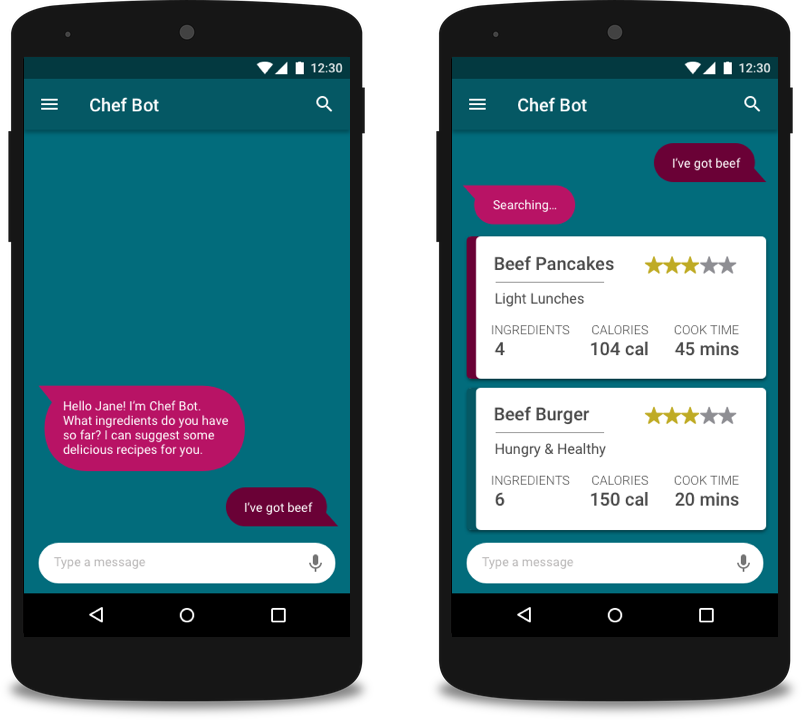
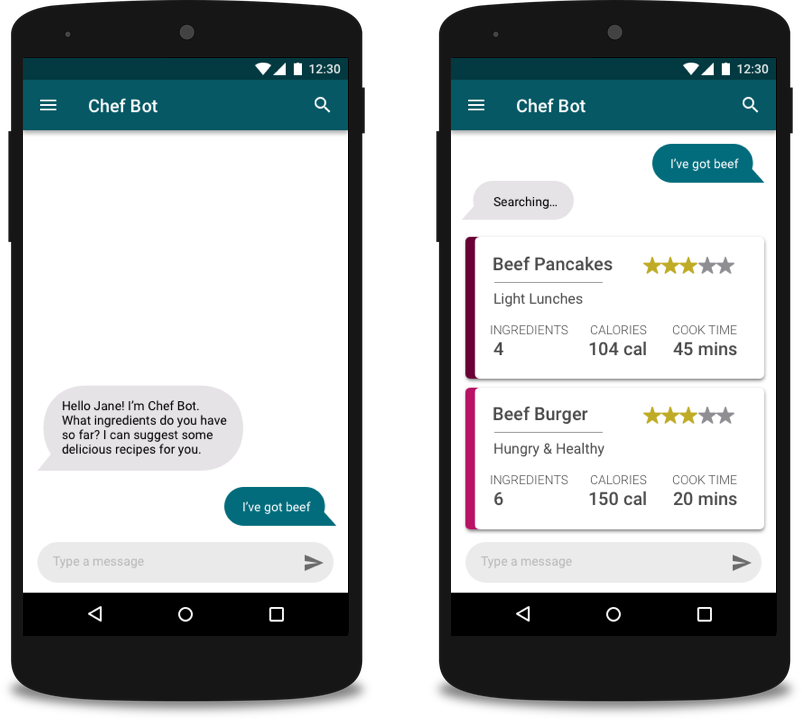
added animations

diff --git a/src/styles.css b/src/styles.css
@@ -30,6 +30,60 @@ footer {
     text-align: center;
 }
 
+.slideInUp {
+    -webkit-animation: slideInUp 0.5s ease-out;
+    animation: slideInUp 0.5s ease-out;
+}
+@-webkit-keyframes slideInUp {
+    from {
+      -webkit-transform: translate3d(0, 100%, 0);
+      transform: translate3d(0, 100%, 0);
+      visibility: visible;
+    }
+  
+    to {
+      -webkit-transform: translate3d(0, 0, 0);
+      transform: translate3d(0, 0, 0);
+    }
+}
+  
+@keyframes slideInUp {
+    from {
+      -webkit-transform: translate3d(0, 100%, 0);
+      transform: translate3d(0, 100%, 0);
+      visibility: visible;
+    }
+  
+    to {
+      -webkit-transform: translate3d(0, 0, 0);
+      transform: translate3d(0, 0, 0);
+    }
+}
+
+.fadeIn {
+    -webkit-animation: fadeIn 1s;
+    animation: fadeIn 1s;
+}
+@-webkit-keyframes fadeIn {
+    from {
+      opacity: 0;
+    }
+  
+    to {
+      opacity: 1;
+    }
+  }
+  
+@keyframes fadeIn {
+    from {
+      opacity: 0;
+    }
+  
+    to {
+      opacity: 1;
+    }
+}
+
 /* RESPONSIVE CSS */
 
 @media only screen and (max-width: 414px){

diff --git a/src/app/prototypes/prototypes.component.css b/src/app/prototypes/prototypes.component.css
@@ -11,7 +11,13 @@
     height: auto;
 }
 #greeting{
-    animation: flash 3s ease-in-out -2s 3 alternate none;
+    background: linear-gradient(to left, #026C7C 40%, black 60%);
+    background-size: 200% auto;
+    color: black;
+    background-clip: text;
+    -webkit-background-clip: text;
+    -webkit-text-fill-color: transparent;
+    animation: flash 2s linear;
 }
 #details{
     display: grid;
@@ -51,12 +57,10 @@
 /* ANIMATIONS */
 
 @-webkit-keyframes flash{
-    from {color: black;}
-    to {color: #026C7C;}
+    to {background-position: 200% center;}
 }
 @keyframes flash{
-    from {color: black;}
-    to {color: #026C7C;}
+    to {background-position: 200% center;}
 }
 
 /* RESPONSIVE CSS */

diff --git a/src/app/prototypes/prototypes.component.html b/src/app/prototypes/prototypes.component.html
@@ -1,4 +1,4 @@
-<div id="content">
+<div class="slideInUp" id="content">
   <div id="intro">
     <img src="assets/hello-chefbot.png"/>
     <div>
@@ -31,7 +31,7 @@
       <div style="margin:60px">
         <img src="assets/hero-phone.png"/>
       </div>
-      <div style="margin:60px"> 
+      <div style="margin:50px">  
         <p class="large-text">Your very own mobile sous-chef.</p>
         <p>Coming soon to Google Play & iPhone App Store.</p>
       </div>

diff --git a/src/app/about/about.component.html b/src/app/about/about.component.html
@@ -1,4 +1,4 @@
-<div id="home">
+<div class="slideInUp" id="home">
   <div id="profile-text">
     <h1 class="large-text">viola bazanye</h1>
     <p>I am a programmer with an enthusiasm for design and a drive to create futures for actual people.

diff --git a/src/app/case-studies/case-studies.component.html b/src/app/case-studies/case-studies.component.html
@@ -1,3 +1,3 @@
-<div id="content">
+<div class="fadeIn" id="content">
   <h4 class="large-text">coming soon!...</h4>
 </div>
